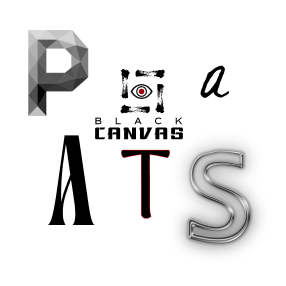
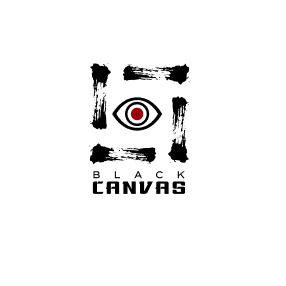
update patas link and cover

Changed region(s): [[0.0839, 0.0839, 0.9231, 0.8951], [0.6993, 0.2238, 0.8112, 0.3636]]

diff --git a/src/components/featured.tsx b/src/components/featured.tsx
@@ -31,7 +31,7 @@ export default function Featured() {
             title="Black Canvas - Patas"
             description="A Cebu, Philippine based band Lyric Video."
             task="Video Director, Editor, concept, drummer"
-            url="https://youtu.be/FIPOdovEwyw?si=uwk1HUH512AzAAdW"
+            url="https://www.youtube.com/watch?v=CQQvjXYMYUs"
           />
         </div>
 
